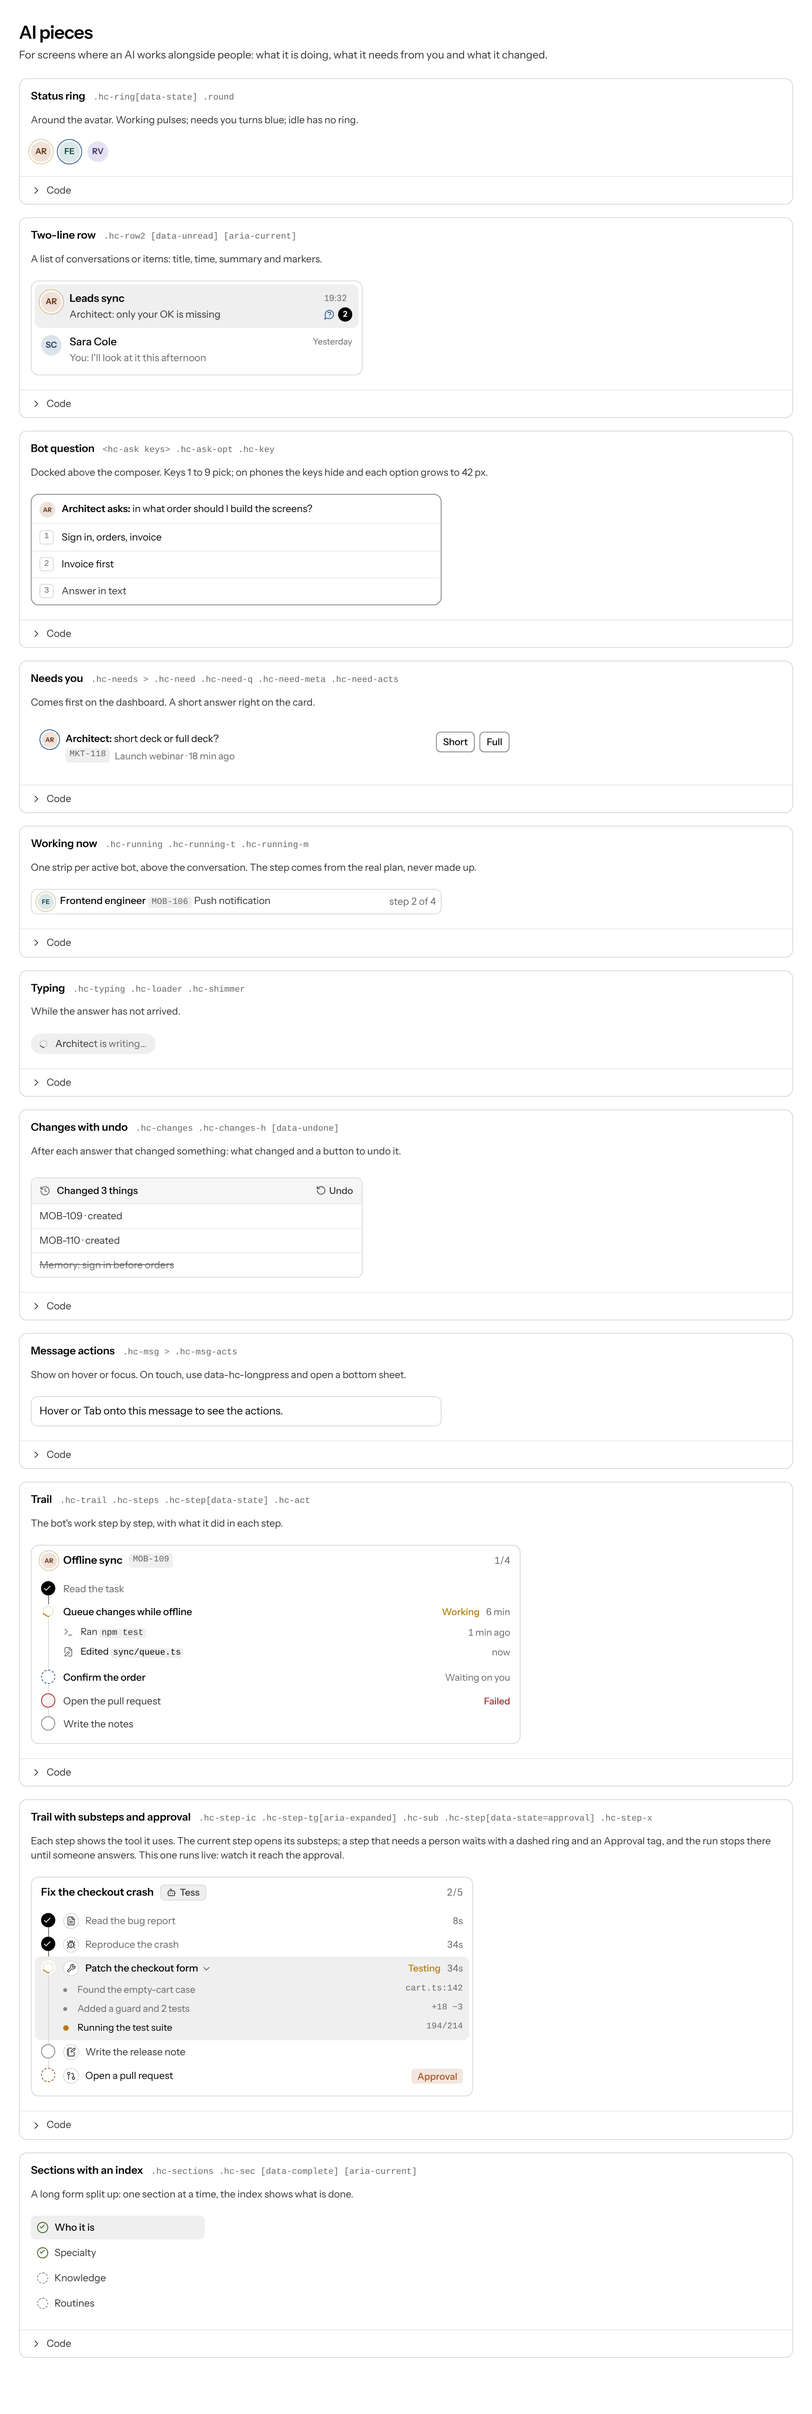
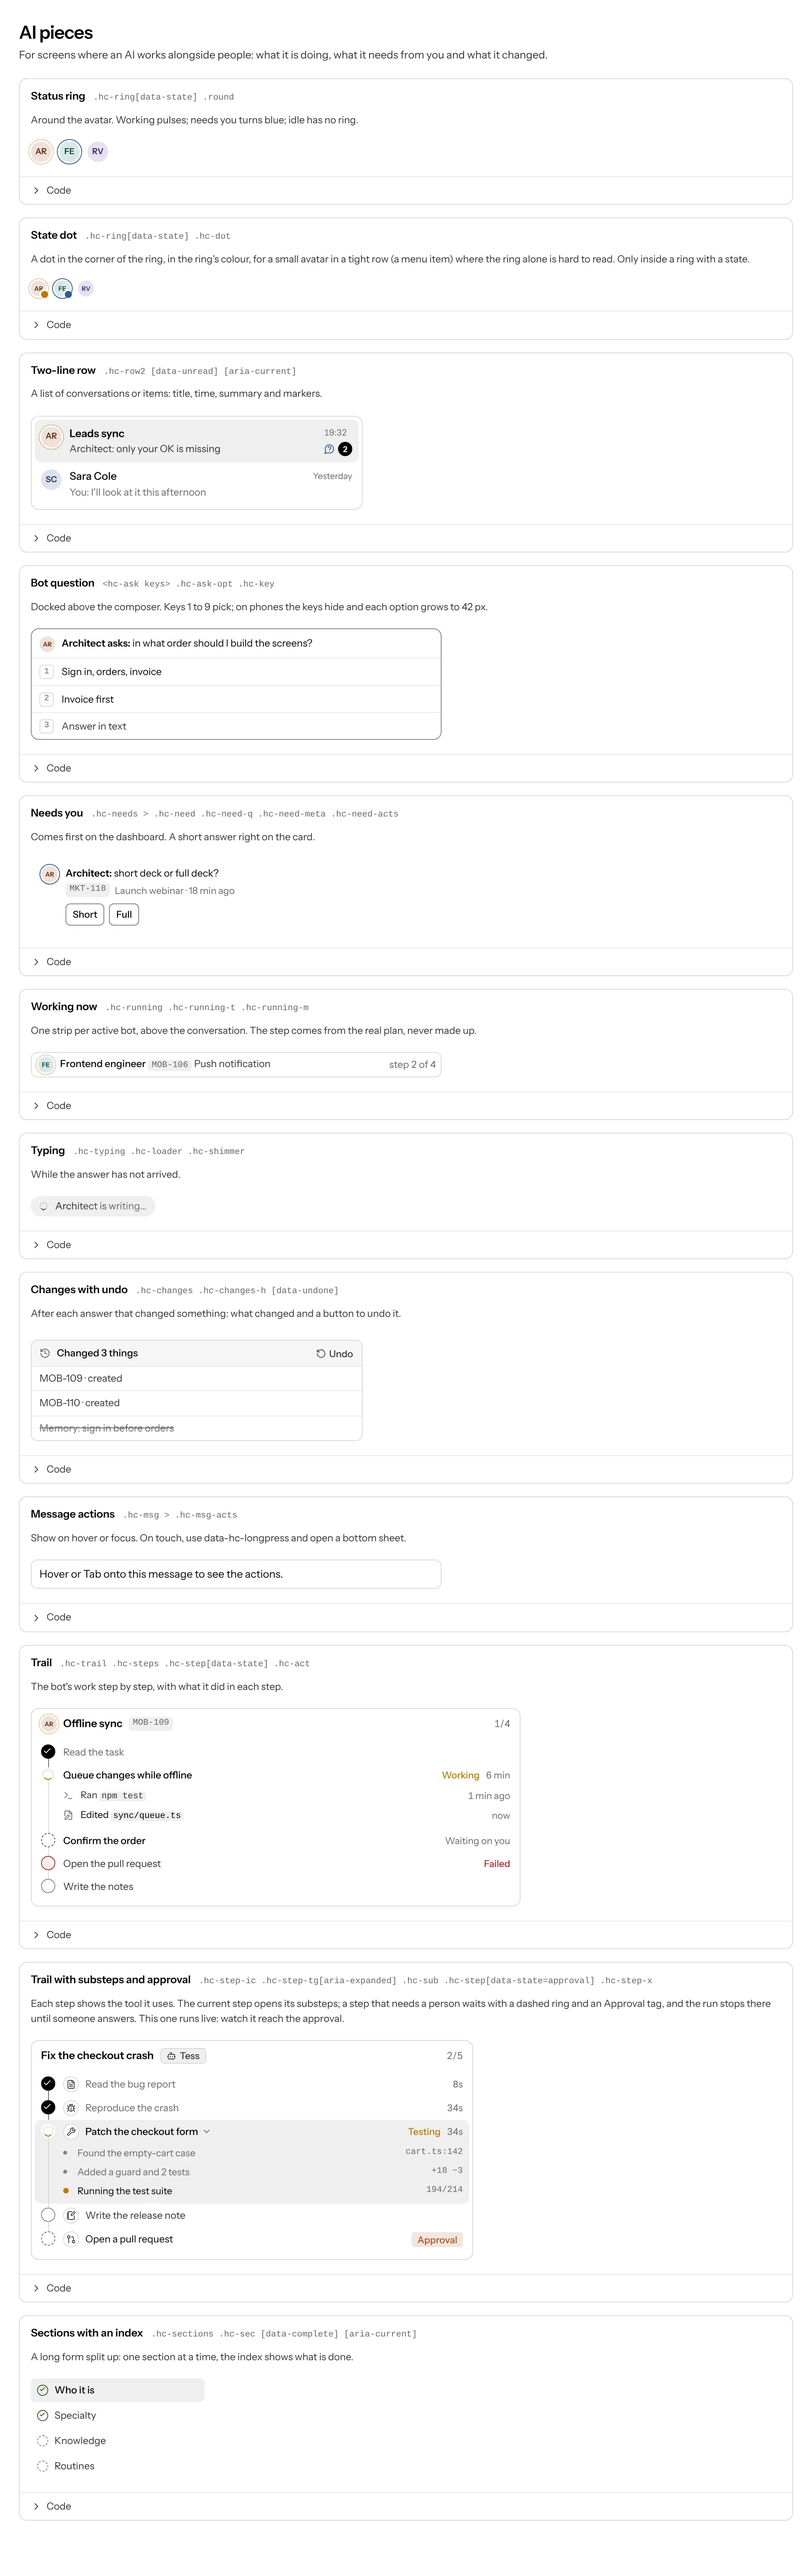
State dot in the status ring (0.2.1)
A dot in the corner of .hc-ring[data-state], in the ring's colour, for small avatars in tight rows such as a menu item. Catalog example on the AI pieces page, audit R26 (the dot only inside a ring with a state), CHANGELOG and the README screenshot of that page.

diff --git a/site/ai.html b/site/ai.html
@@ -35,6 +35,14 @@
 &lt;span class="hc-ring round" data-state="needs"&gt;&lt;span class="av md" style="--c:var(--teal)"&gt;FE&lt;/span&gt;&lt;/span&gt;
 &lt;span class="hc-ring round"&gt;&lt;span class="av md" style="--c:var(--violet)"&gt;RV&lt;/span&gt;&lt;/span&gt;</code></pre></details></section>
 
+  <section class="ex" id="state-dot"><div class="ex-h"><h3>State dot</h3><code class="faint">.hc-ring[data-state] .hc-dot</code><p>A dot in the corner of the ring, in the ring's colour, for a small avatar in a tight row (a menu item) where the ring alone is hard to read. Only inside a ring with a state.</p></div><div class="ex-demo ">
+  <span class="hc-ring round" data-state="working"><span class="av sm" style="--c:var(--orange)">AR</span><i class="hc-dot" aria-hidden="true"></i></span>
+  <span class="hc-ring round" data-state="needs"><span class="av sm" style="--c:var(--teal)">FE</span><i class="hc-dot" aria-hidden="true"></i></span>
+  <span class="hc-ring round"><span class="av sm" style="--c:var(--violet)">RV</span></span>
+  </div><details class="ex-code"><summary><svg class="i" width="14" height="14" viewBox="0 0 24 24" fill="none" stroke="currentColor" stroke-width="1.8" stroke-linecap="round" stroke-linejoin="round" aria-hidden="true"><path d="m9 18 6-6-6-6"/></svg>Code</summary><div class="row" style="padding:0 14px 6px"><span class="sp"></span><button class="btn btn-xs btn-ghost" data-copy>Copy</button></div><pre><code>&lt;span class="hc-ring round" data-state="working"&gt;&lt;span class="av sm" style="--c:var(--orange)"&gt;AR&lt;/span&gt;&lt;i class="hc-dot" aria-hidden="true"&gt;&lt;/i&gt;&lt;/span&gt;
+&lt;span class="hc-ring round" data-state="needs"&gt;&lt;span class="av sm" style="--c:var(--teal)"&gt;FE&lt;/span&gt;&lt;i class="hc-dot" aria-hidden="true"&gt;&lt;/i&gt;&lt;/span&gt;
+&lt;span class="hc-ring round"&gt;&lt;span class="av sm" style="--c:var(--violet)"&gt;RV&lt;/span&gt;&lt;/span&gt;</code></pre></details></section>
+
   <section class="ex" id="two-line-row"><div class="ex-h"><h3>Two-line row</h3><code class="faint">.hc-row2 [data-unread] [aria-current]</code><p>A list of conversations or items: title, time, summary and markers.</p></div><div class="ex-demo col">
   <div class="panel" style="max-width:420px;padding:4px">
     <button class="hc-row2" data-unread aria-current="true">

diff --git a/catalog/pages/ai.html b/catalog/pages/ai.html
@@ -8,6 +8,12 @@
   <span class="hc-ring round"><span class="av md" style="--c:var(--violet)">RV</span></span>
   <!-- /ex -->
 
+  <!-- ex: State dot | .hc-ring[data-state] .hc-dot | A dot in the corner of the ring, in the ring's colour, for a small avatar in a tight row (a menu item) where the ring alone is hard to read. Only inside a ring with a state. -->
+  <span class="hc-ring round" data-state="working"><span class="av sm" style="--c:var(--orange)">AR</span><i class="hc-dot" aria-hidden="true"></i></span>
+  <span class="hc-ring round" data-state="needs"><span class="av sm" style="--c:var(--teal)">FE</span><i class="hc-dot" aria-hidden="true"></i></span>
+  <span class="hc-ring round"><span class="av sm" style="--c:var(--violet)">RV</span></span>
+  <!-- /ex -->
+
   <!-- ex: Two-line row | .hc-row2 [data-unread] [aria-current] | A list of conversations or items: title, time, summary and markers. | col -->
   <div class="panel" style="max-width:420px;padding:4px">
     <button class="hc-row2" data-unread aria-current="true">

diff --git a/audit/audit.js b/audit/audit.js
@@ -363,6 +363,16 @@
     }
     add('R25', 'error', 'Context switcher (workspace, organisation, product): .hc-switch, first row of the menu', ctx, !switches.length && !ctx.length);
 
+    // R26 the state dot only repeats a ring that has a state
+    const dots = all('.hc-dot');
+    const dot = [];
+    for (const d of dots) {
+      const ring = d.closest('.hc-ring');
+      if (!ring) dot.push(`${name(d)} is outside .hc-ring`);
+      else if (!ring.getAttribute('data-state')) dot.push(`${name(d)} sits in a ring with no data-state: remove the dot or set the state`);
+    }
+    add('R26', 'error', 'State dot: .hc-dot only inside .hc-ring[data-state]', dot, !dots.length);
+
     // R21 every text size comes from the --fs-* scale
     const scale = new Set(['--fs-3xs', '--fs-2xs', '--fs-xs', '--fs-sm', '--fs', '--fs-md', '--fs-lg', '--fs-xl', '--fs-2xl'].map(t => parseFloat(root.getPropertyValue(t))).filter(Boolean));
     const sizes = new Map();

diff --git a/site/hc/hc.css b/site/hc/hc.css
@@ -65,6 +65,18 @@ svg.hc-spin > * {
 .hc-ring[data-state='working']::after {
   animation: hc-pulse 2.4s ease-in-out infinite;
 }
+/* state dot in the corner of the ring, for rows too tight for the ring alone to read (a menu at 20 px) */
+.hc-ring[data-state] .hc-dot {
+  position: absolute;
+  right: -2px;
+  bottom: -2px;
+  width: 9px;
+  height: 9px;
+  border-radius: 50%;
+  background: var(--hc-ring);
+  box-shadow: 0 0 0 2px var(--surface);
+  pointer-events: none;
+}
 
 /* ---------- two-line row (conversation, session): .hc-row2 ---------- */
 .hc-row2 {

diff --git a/src/hc.css b/src/hc.css
@@ -65,6 +65,18 @@ svg.hc-spin > * {
 .hc-ring[data-state='working']::after {
   animation: hc-pulse 2.4s ease-in-out infinite;
 }
+/* state dot in the corner of the ring, for rows too tight for the ring alone to read (a menu at 20 px) */
+.hc-ring[data-state] .hc-dot {
+  position: absolute;
+  right: -2px;
+  bottom: -2px;
+  width: 9px;
+  height: 9px;
+  border-radius: 50%;
+  background: var(--hc-ring);
+  box-shadow: 0 0 0 2px var(--surface);
+  pointer-events: none;
+}
 
 /* ---------- two-line row (conversation, session): .hc-row2 ---------- */
 .hc-row2 {

diff --git a/AUDIT.md b/AUDIT.md
@@ -86,6 +86,7 @@ node scripts/audit.mjs --src ../my-app \
 | R23 | error | The work area (`.content`, `main`, `.page`, `.ph`, `.hc-main`, the sign-in card) sits on `var(--surface)`, white in light; the grey `var(--bg)` only behind the sign-in card | Set `body`, `.main` and `.content` to `var(--surface)`; remove the app's own grey. |
 | R24 | error | One vertical scrollbar per area: no scrolling box inside another (text areas and code blocks excepted), and the window does not scroll while a tall box scrolls inside it | Put `.fill` on `.content` and `.fill-b` on the piece that scrolls; drop guessed `max-height: calc(100vh - …)`. |
 | R25 | error | The context the person works in (workspace, organisation, product) is picked with one `button.hc-switch` in `.side-top`, with `aria-haspopup="menu"`, `aria-expanded`, `.hc-switch-logo` and `.hc-switch-name`; its `.hc-switch-menu` has each choice as `.mi[role="menuitemradio"]` and exactly one `aria-checked="true"`. No `<select>` or look-alike button in the menu or top bar picks it, and no `<select>` of the workspace or organisation inside a page | Copy the "Context switcher" markup from `components.json`; remove the old picker. |
+| R26 | error | A state dot (`.hc-dot`) sits only inside `.hc-ring[data-state]`, where it repeats the ring's colour | Remove the dot from a ring with no state, or give the ring its `data-state`. |
 
 `data-audit-skip` on an element leaves it and its children out of the page checks. Use it only for demos, like the catalog does for an error page shown inside a page; never to hide a real problem.
 

diff --git a/CHANGELOG.md b/CHANGELOG.md
@@ -1,7 +1,8 @@
 # Changes
 
-## 0.2.1
+## 0.2.1 (tagged 2026-11-15)
 
+- State dot (`.hc-ring[data-state] .hc-dot`): a dot in the corner of the status ring, in the ring's colour, for small avatars in tight rows such as a menu item, where the ring alone is hard to read. Audit R26 checks it only appears inside a ring with a state. Found in Meetas, whose bots menu drew it locally.
 - Audit: S13 fails when an app uses the lime accent as a text colour (`color: var(--accent)` in CSS or `style=""`); links and accent text use `--accent-ink`. Found in Meetas, where task links in comments were lime.
 - Needs you (`.hc-need`): the answers sit under the question instead of in a third column. Long answers no longer squeeze the question into a narrow column, and answer buttons wrap their text instead of spilling out of the card on phones.
 
